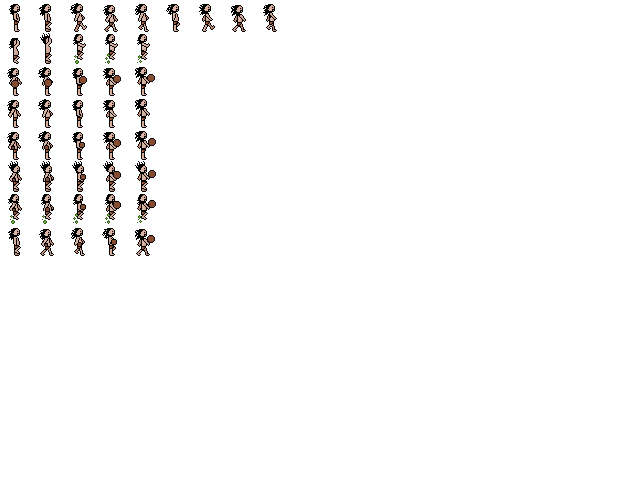
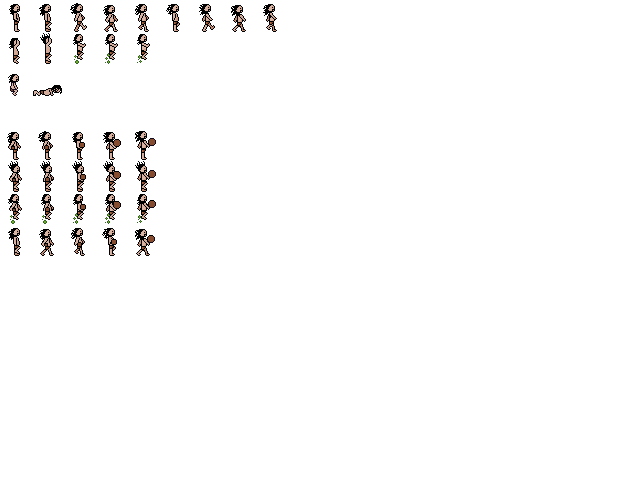
limit shoots. Start crouchin state

Changed region(s): [[0.0, 0.125, 0.1875, 0.2812], [0.2188, 0.125, 0.25, 0.2812]]

diff --git a/core/src/com/jashlaviu/platformer/actors/Player.java b/core/src/com/jashlaviu/platformer/actors/Player.java
@@ -12,17 +12,19 @@ public class Player extends ActorJash {
 	private Checkpoint checkpoint;
 	
 	public enum State{
-		WALKING, JUMPING, LANDING
+		WALKING, JUMPING, CROUCHING
 	}
 	
-	protected State state;	
-	protected Animation walkAnimation, jumpAnimation, fallAnimation;
-	protected Animation shootNormalAnimation, shootWalkAnimation, shootJumpAnimation, shootFallAnimation;
+	private State state;	
+	private Animation walkAnimation, jumpAnimation, fallAnimation, crouchAnimation;
+	private Animation shootNormalAnimation, shootWalkAnimation, shootJumpAnimation, shootFallAnimation;
 	
-	protected float FRICTION, MOVESPEED, MAX_VEL_X, MAX_VEL_Y;
-	protected boolean movingLeft, movingRight;
+	private float FRICTION, MOVESPEED, MAX_VEL_X, MAX_VEL_Y;
+	private boolean movingLeft, movingRight;
 	
-	protected boolean isShooting, needShoot;
+	private boolean isShooting, needShoot;
+	private int shootsLeft;
+	
 	private float shootTimer;
 	private float shootDelay;
 	private float shootDelayAnimation;
@@ -38,8 +40,8 @@ public class Player extends ActorJash {
 		MOVESPEED = 1500f;
 		state = State.JUMPING;	
 		
+		shootsLeft = 5;
 		shootTimer = 0;
-		//shootDelay = 0.08f;
 		shootDelay = 0.4f;
 		shootDelayAnimation = 0.4f;
 		
@@ -80,9 +82,24 @@ public class Player extends ActorJash {
 	}
 	
 	public void shoot(){
-		if(shootTimer > shootDelay){
+		if(shootsLeft > 0 && shootTimer > shootDelay && state != State.CROUCHING){
+			shootsLeft--;
 			shootTimer = 0;
 			setShooting(true);
+		}
+	}
+	
+	public void crouch(){
+		if(state == State.WALKING){
+			state = State.CROUCHING;
+			animationTime = 0;
+		}
+	}
+	
+	public void stand(){
+		if(state == State.CROUCHING){
+			state = State.WALKING;
+			animationTime = 0;
 		}
 	}
 	
@@ -109,6 +126,8 @@ public class Player extends ActorJash {
 				}else{  //NOT shooting and is falling
 					setRegion(fallAnimation.getKeyFrame(0, false));			
 				}
+			}else if(state == State.CROUCHING){
+				setRegion(crouchAnimation.getKeyFrame(animationTime, false));
 			}
 		}		
 
@@ -192,7 +211,8 @@ public class Player extends ActorJash {
 	private void initializeAnimations(){
 		walkAnimation = new Animation(100f, getRegion());
 		jumpAnimation = new Animation(100f, getRegion());
-		fallAnimation = new Animation(100f, getRegion());		
+		fallAnimation = new Animation(100f, getRegion());	
+		crouchAnimation = new Animation(100f, getRegion());
 		
 		shootNormalAnimation = new Animation(100f, getRegion());
 		shootWalkAnimation = new Animation(100f, getRegion());
@@ -203,7 +223,9 @@ public class Player extends ActorJash {
 		setJumpAnimation(.10f, TextureLoader.playerJump);
 		setFallAnimation(.1f, TextureLoader.playerFall);
 		
-		setShootNormalAnimation(shootDelayAnimation/ (float)TextureLoader.playerShootNormal.size, TextureLoader.playerShootNormal);		
+		crouchAnimation = new Animation(0.25f, TextureLoader.playerCrouch);
+		
+		setShootNormalAnimation(shootDelayAnimation/(float)TextureLoader.playerShootNormal.size, TextureLoader.playerShootNormal);		
 		setShootFalllAnimation(shootDelayAnimation/(float)TextureLoader.playerShootFall.size, TextureLoader.playerShootFall);
 		setShootJumpAnimation(shootDelayAnimation/(float)TextureLoader.playerShootJump.size, TextureLoader.playerShootJump);		
 		setShootWalkAnimation(shootDelayAnimation/(float)TextureLoader.playerShootWalk.size, TextureLoader.playerShootWalk);
@@ -253,6 +275,7 @@ public class Player extends ActorJash {
 	 * Resets player position to the stored checkpoint
 	 */
 	public void respawn(){
+		shootsLeft = 5;
 		hunger = 0;
 		setPosition(checkpoint.getX(), checkpoint.getY());
 	}
@@ -272,6 +295,18 @@ public class Player extends ActorJash {
 	
 	public float getHunger(){
 		return hunger;
+	}
+	
+	public void setShootsLeft(int shoots){
+		shootsLeft = shoots;
+	}
+	
+	public int getShootsLeft(){
+		return shootsLeft;
+	}
+	
+	public State getState(){
+		return state;
 	}
 
 }

diff --git a/core/src/com/jashlaviu/platformer/GameLogic.java b/core/src/com/jashlaviu/platformer/GameLogic.java
@@ -235,12 +235,15 @@ public class GameLogic {
 		Rectangle pBounds = player.getCollisionBounds();
 		
 		//Updates every actor X position
-		player.updateX(delta);			
-		handleXmapCollision(player, pBounds);	
 		
-		//Updates every actor Y position
-		player.updateY(delta);			
-		handleYmapCollision(player, pBounds);
+		if(player.getState() != State.CROUCHING){
+			player.updateX(delta);			
+			handleXmapCollision(player, pBounds);	
+		
+			//Updates every actor Y position
+			player.updateY(delta);			
+			handleYmapCollision(player, pBounds);
+		}
 		
 		if(pBounds.overlaps(goal)){
 			levelUp();
@@ -344,14 +347,25 @@ public class GameLogic {
 	}
 	
 	public void handleInput(float delta){
+		if(Gdx.input.isKeyPressed(Keys.DOWN)){
+			player.crouch();
+		}else{
+			player.stand();
+		}
+		
 		if(Gdx.input.isKeyPressed(Keys.LEFT)){
-			player.moveLeft();		
+			if(player.getState() != State.CROUCHING){
+				player.moveLeft();
+			}	
 		}else{
 			player.setMovingLeft(false);
 		}
 		
 		if(Gdx.input.isKeyPressed(Keys.RIGHT)){
-			player.moveRight();
+			if(player.getState() != State.CROUCHING){
+				player.moveRight();
+			}
+					
 		}else{
 			player.setMovingRight(false);
 		}
@@ -364,9 +378,7 @@ public class GameLogic {
 			shoot();
 		}		
 		
-		if(Gdx.input.isKeyJustPressed(Keys.SPACE)){
-		//	player.respawn();
-		}
+
 		
 	}
 	

diff --git a/core/src/com/jashlaviu/platformer/TextureLoader.java b/core/src/com/jashlaviu/platformer/TextureLoader.java
@@ -14,7 +14,7 @@ public class TextureLoader {
 	public static TextureRegion shootCocoNormal, shootVenomNormal;
 	public static TextureRegion guiHungerCapsule, guiHungerBar, guiHungerText;
 	
-	public static Array<TextureRegion> playerWalk, playerJump, playerFall;
+	public static Array<TextureRegion> playerWalk, playerJump, playerFall, playerCrouch;
 	public static Array<TextureRegion> playerShootNormal, playerShootFall, playerShootJump, playerShootWalk;
 	public static Array<TextureRegion> shootCocoDestroy, shootVenomDestroy, crabWalk, crabDie, snailDie, snakeDie, snakeAttack;
 	public static Array<TextureRegion> foodChicken;
@@ -37,6 +37,7 @@ public class TextureLoader {
 		playerWalk = getRegions(playerTexture, 1, 0, 32, 32, 8);
 		playerFall = getRegions(playerTexture, 1, 1, 32, 32, 1); 
 		playerJump = getRegions(playerTexture, 2, 1, 32, 32, 3); 
+		playerCrouch = getRegions(playerTexture, 0, 2, 32, 32, 2);
 				
 		playerShootNormal = getRegions(playerTexture, 0, 4, 32, 32, 5);
 		playerShootFall = getRegions(playerTexture, 0, 5, 32, 32, 5);

diff --git a/core/src/com/jashlaviu/platformer/Gui.java b/core/src/com/jashlaviu/platformer/Gui.java
@@ -38,6 +38,10 @@ public class Gui {
 		batch.draw(hungerBar, 50, 201, hungerBar.getRegionWidth(), 
 				(hungerCapsule.getRegionHeight()-1-(gameLogic.getPlayer().getHunger()*4)));		
 		
+		for(int i = 0; i < gameLogic.getPlayer().getShootsLeft(); i++){
+			batch.draw(TextureLoader.shootCocoNormal, 550 + (i * 30), 750, 24, 30);			
+		}
+		
 		batch.end();
 	}
 }
